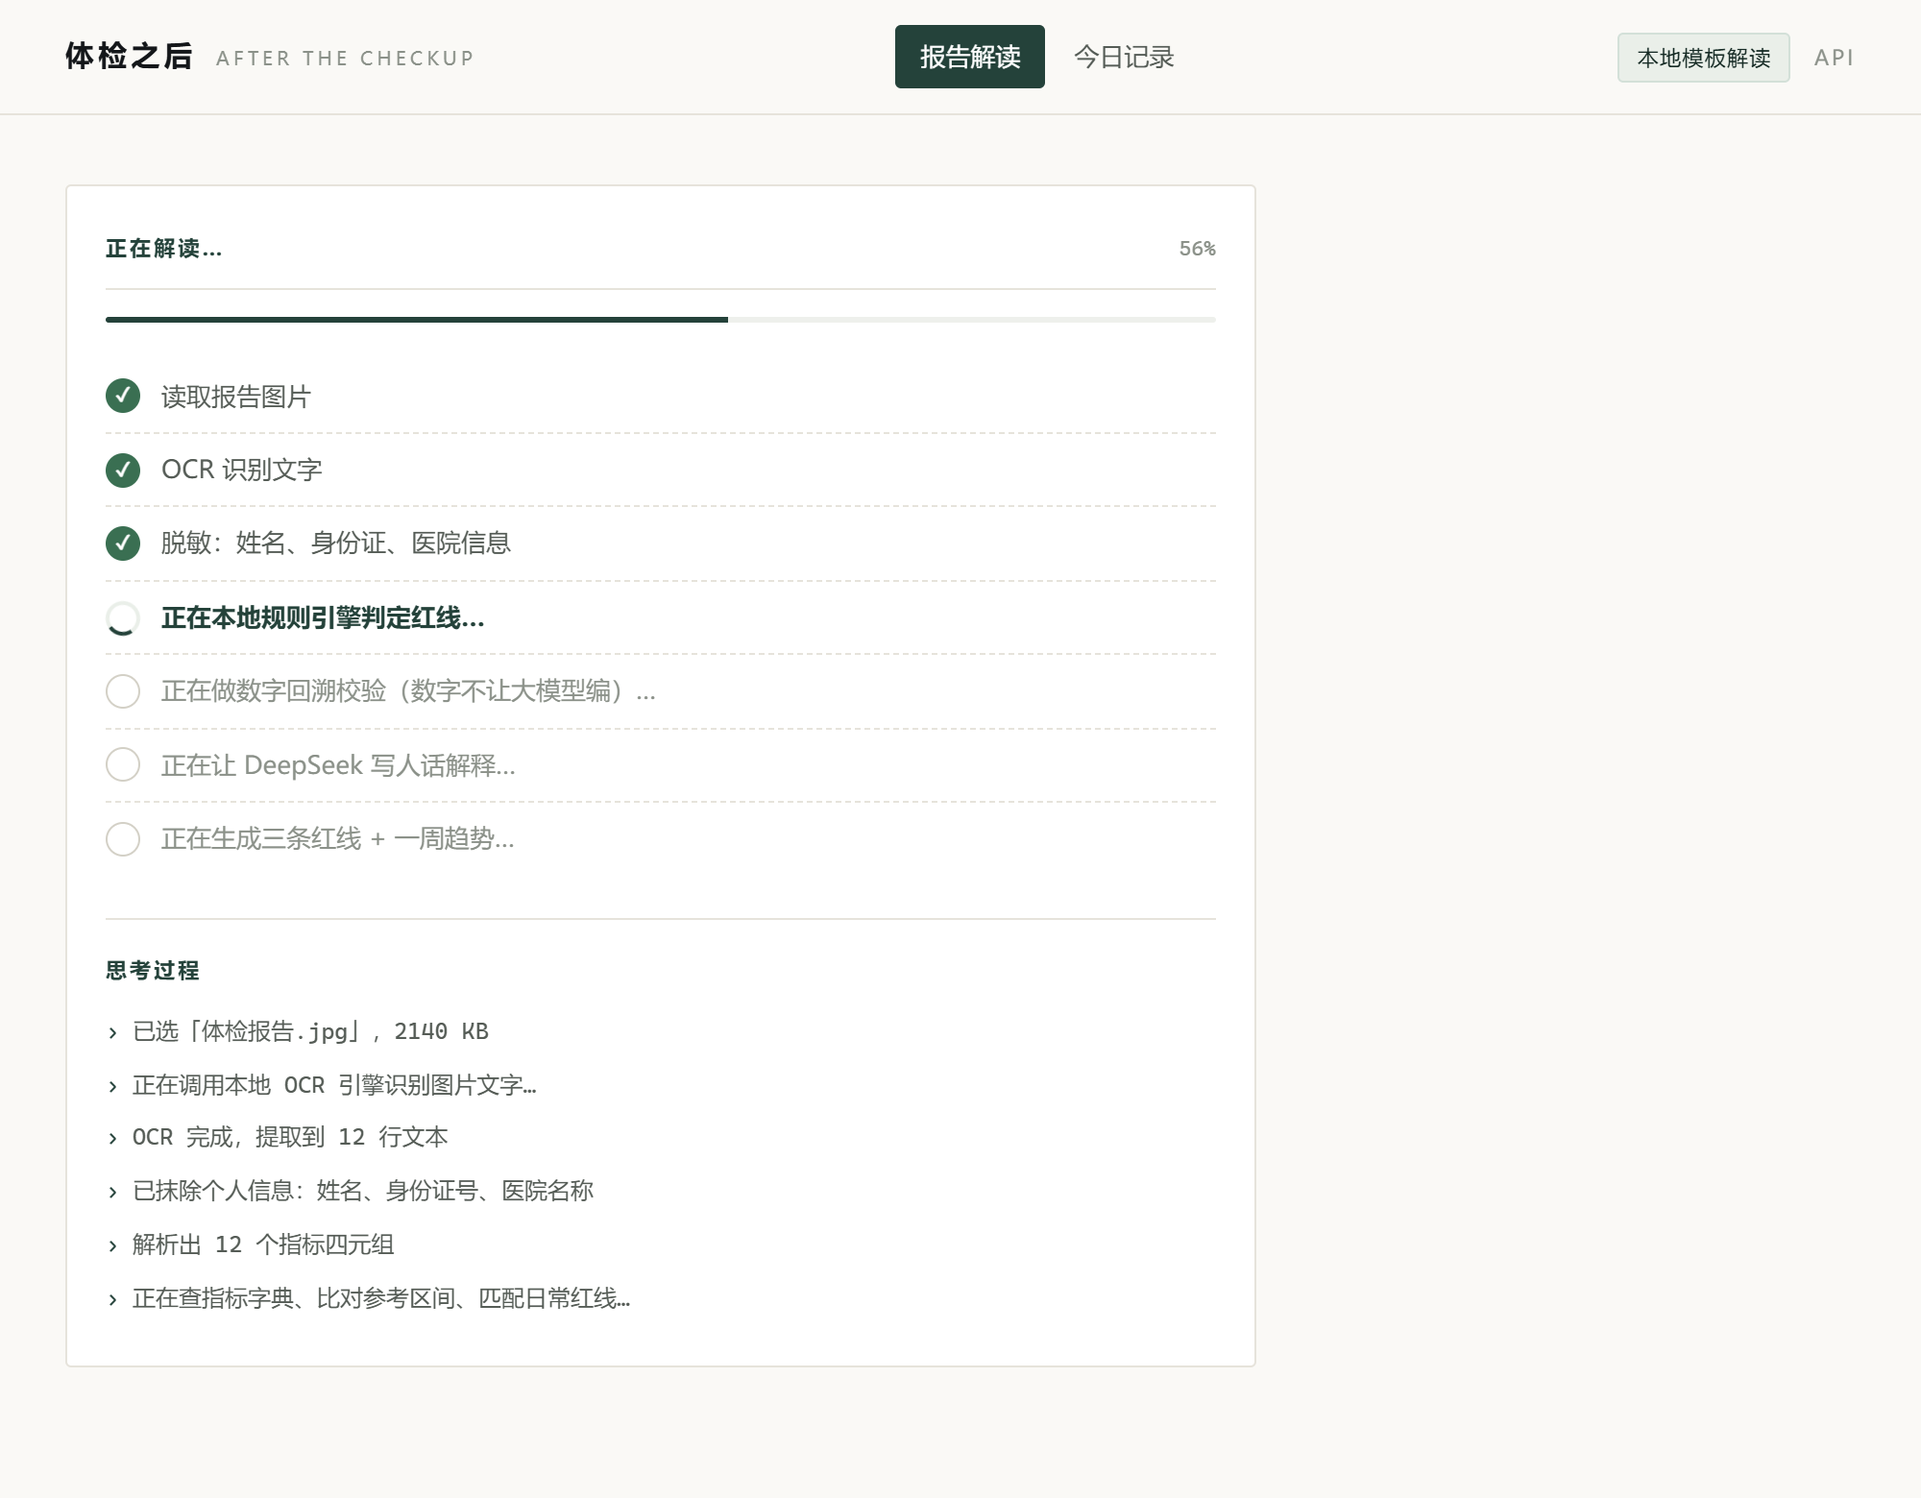
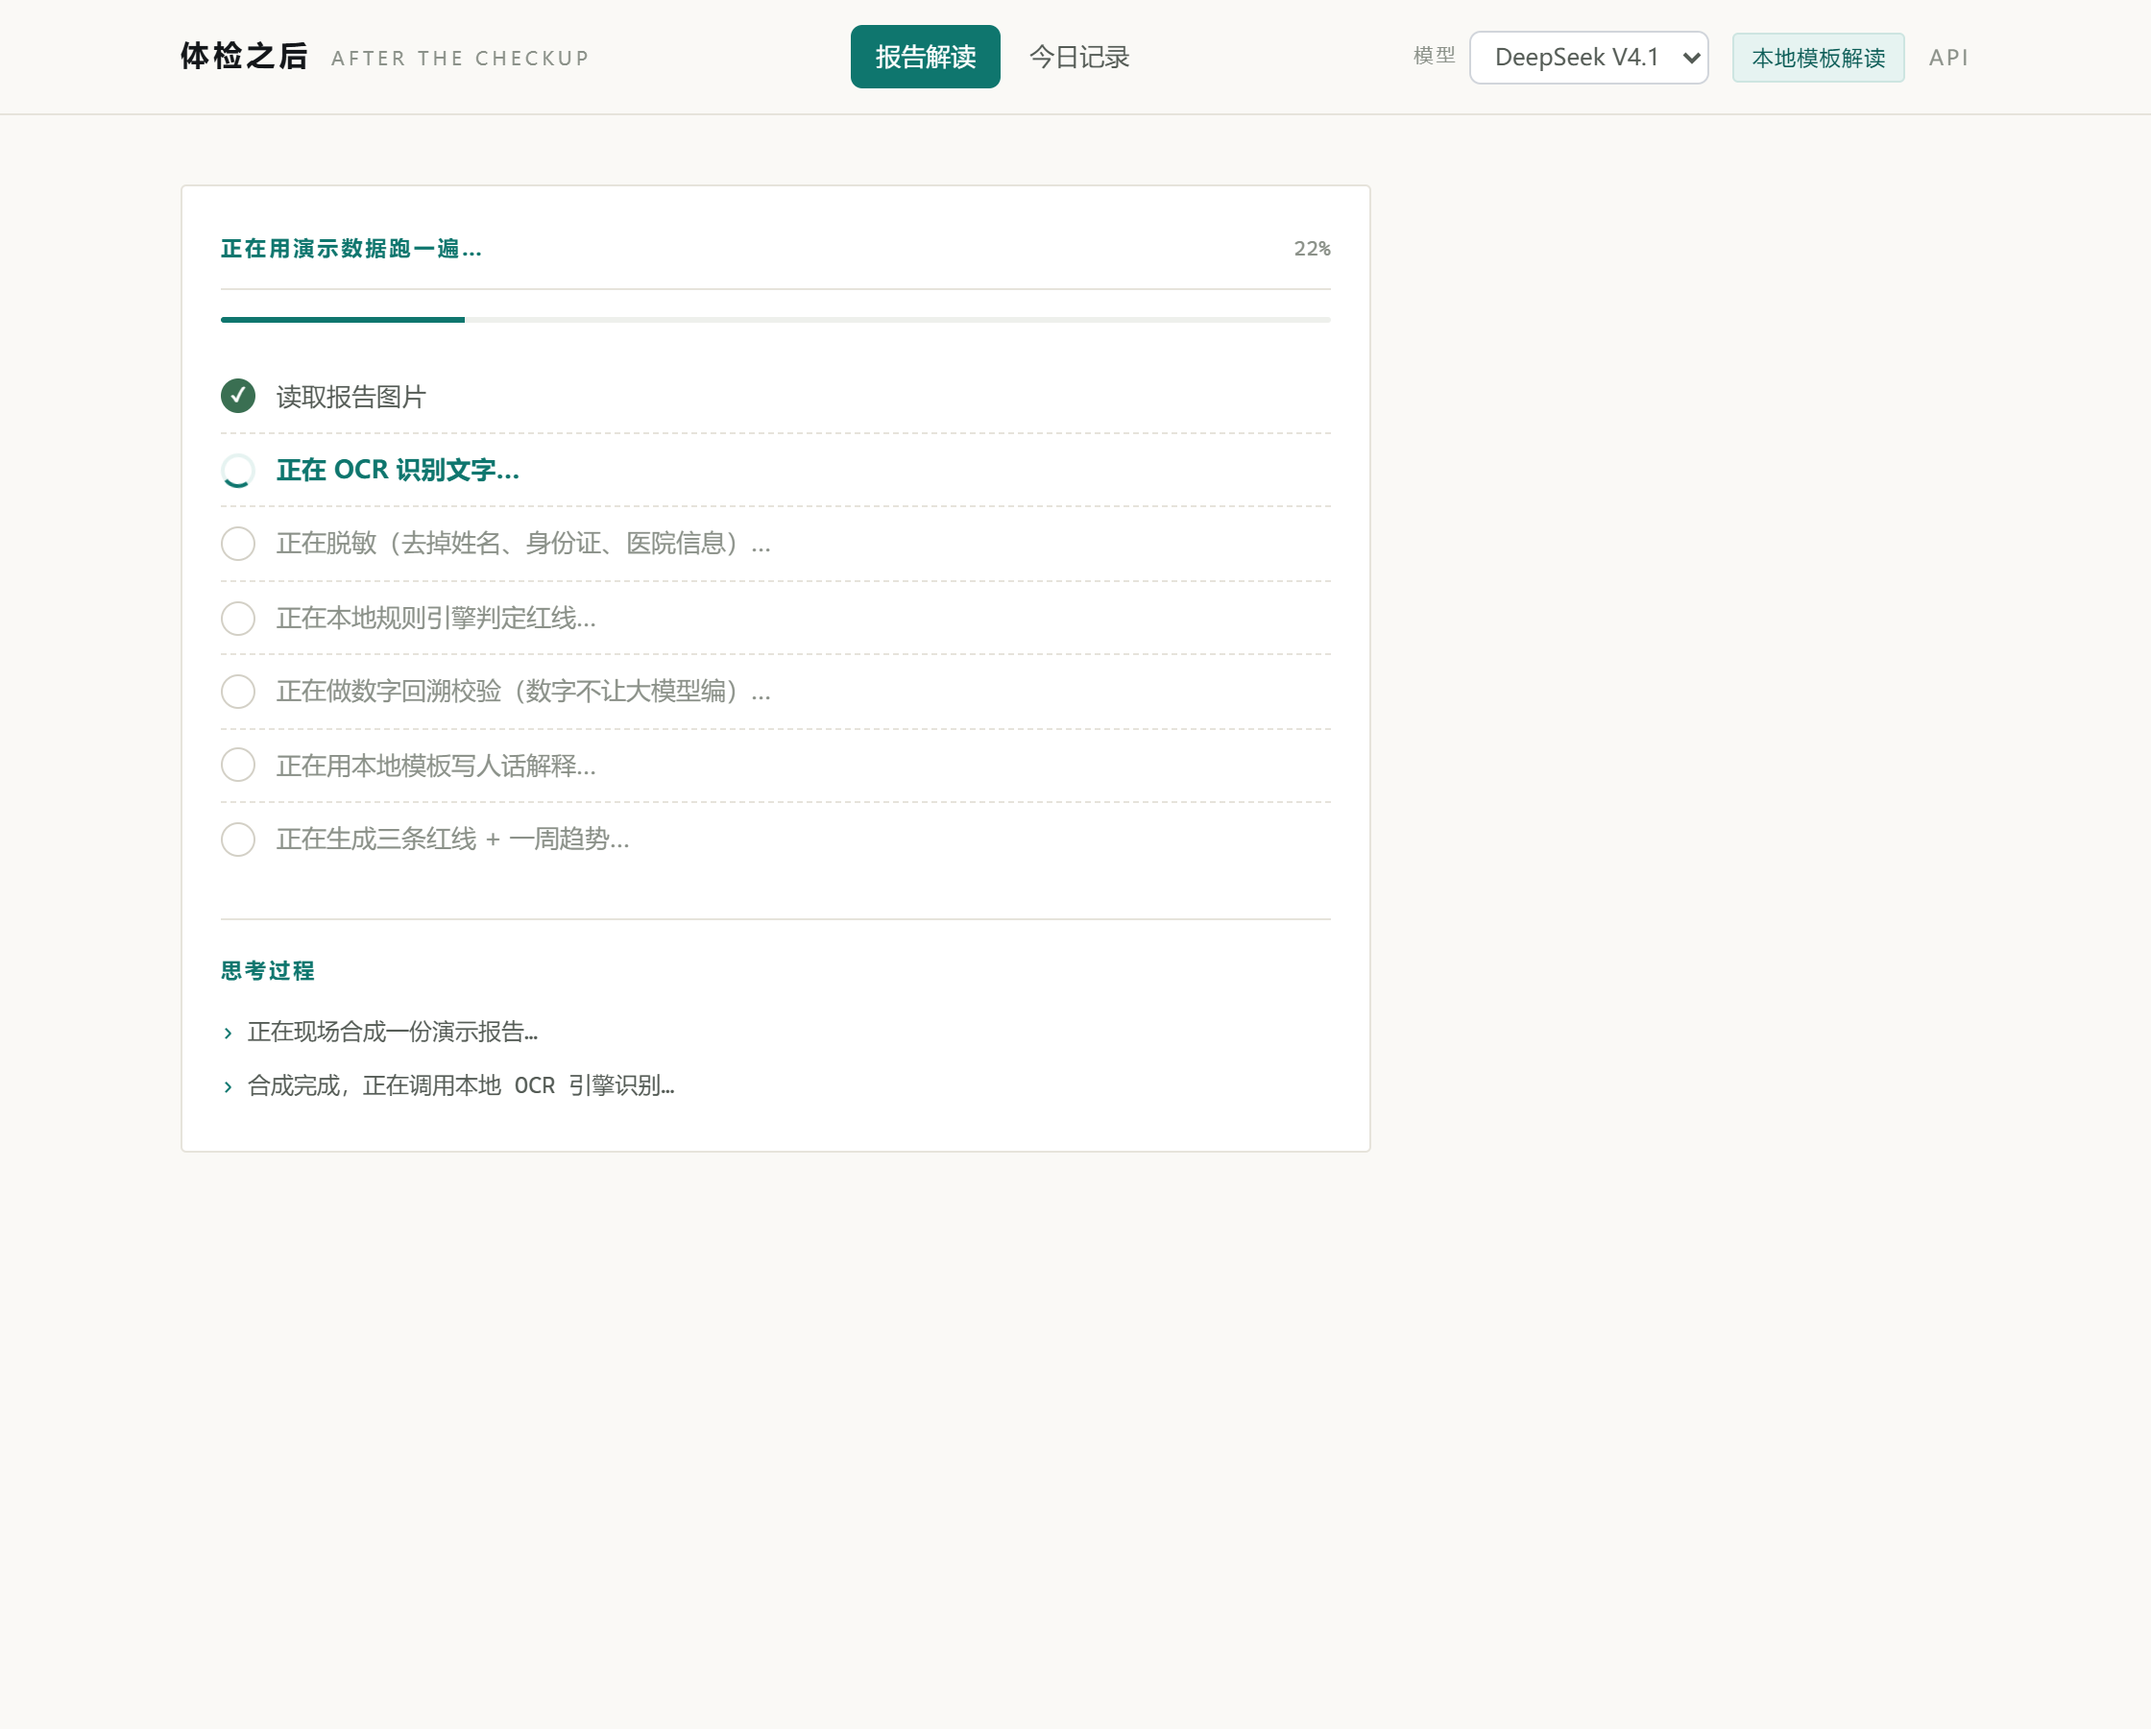
style(ui): 按钮改为克制的工具风（36px / 6px / 纯色 / 无阴影）
按"像支付宝、像医院系统"的目标重做按钮规格，抽成 --btn-* 一组变量，
以后调风格只改 :root。

按钮
- .btn      统一 36px 高、14px 字、正常字重、6px 圆角、纯色填充
- .btn-primary  实心 #0F766E，去掉 hover 变色以外的全部装饰
- .btn-ghost    白底 + 1px #D1D5DB 边框 + #111827 文字
- .btn-line 新增，暗红 #B91C1C，只给"记录一餐 / 记一次测量"
  （这两个动作的结果就是撞线判定，属于红线相关）
- .btn-sm   只收内边距和字号，高度仍 36px，一排里不再有高有低
- .form-actions 间距 12px → 8px，统一 --btn-gap

为对齐同一套节奏，顺带调整的非 .btn 控件
- .segmented / .seg  外框 36px、内块 30px、圆角 6/5px
- .chat-ask          999px 胶囊 → 6px 方形按钮、32px 高
  （它是全站唯一的全圆角，正是最像模板的一处）
- .dish-chip / .model-select  圆角统一 6px
- .nav-tab           导航标签保持紧凑，只对齐 6px 圆角
- .chat-input        固定 36px，与旁边「提问」按钮同高

主色
- --primary 由 #24423a 调为 #0F766E 一族
  否则选中态与按钮会出现两种绿；mode-chip / badge 的绿边同步换青边

说明：原代码里本来就没有紫蓝渐变、发光阴影和 emoji，
本次是把规格调到你给的值，并按码点扫过三个前端文件确认无 emoji。

未动：任何判定逻辑、接口、依赖。static/check.py 通过，测试 420 项全绿。

diff --git a/static/style.css b/static/style.css
@@ -11,8 +11,9 @@
      · 过度饱和的医疗蓝绿 / 橙黄配色
 
    改成：
-     · 暖纸白底 + 墨色文字；主色用低饱和深墨绿，强调色只用铜色一点点
-     · 1px 细线分区代替卡片阴影，圆角统一收到 2-3px
+     · 暖纸白底 + 墨色文字；主色用深青，强调色只用铜色一点点
+     · 1px 细线分区代替卡片阴影，容器圆角收到 2-3px
+     · 按钮单独一套规格：36px 高 / 6px 圆角 / 8px 间距 / 纯色无阴影
      · 左对齐、上下分层，靠字重与字号拉开层级而不是靠色块
      · 数字统一 tabular-nums 等宽对齐，像真实检验报告那样可扫读
    ============================================================================= */
@@ -32,10 +33,12 @@
   --line: #e6e3db;
   --line-2: #d3d0c6;
 
-  /* 主色：低饱和深墨绿；强调：铜 */
-  --primary: #24423a;
-  --primary-deep: #162b25;
-  --primary-soft: #eaefe9;
+  /* 主色：深青；强调：铜。
+     按钮实心色就是 --primary，两个值必须是同一个，
+     否则页面上会出现"选中态一种绿、按钮另一种绿"的缝合感。 */
+  --primary: #0f766e;
+  --primary-deep: #0b5c56;
+  --primary-soft: #e6f3f1;
 
   --accent: #8a5a2f;
   --accent-soft: #f6f0e7;
@@ -50,6 +53,20 @@
 
   --r: 2px;
   --r-sm: 3px;
+
+  /* 按钮规格（工具风，一处改全局生效）
+     高度 36、圆角 6、间距 8；纯色填充、1px 细线、无渐变无阴影无发光。
+     主次只靠"实心 / 描边"区分，不靠尺寸和颜色堆叠。 */
+  --btn-h: 36px;
+  --btn-r: 6px;
+  --btn-gap: 8px;
+  --btn-primary: #0f766e;
+  --btn-primary-hover: #0b5c56;
+  --btn-primary-press: #094a45;
+  --btn-border: #d1d5db;
+  --btn-text: #111827;
+  --btn-line: #b91c1c;        /* 红线相关动作：暗红，不用亮红 */
+  --btn-line-hover: #991b1b;
 
   --font: system-ui, -apple-system, "Segoe UI", "PingFang SC",
           "Hiragino Sans GB", "Microsoft YaHei", "Source Han Sans SC", sans-serif;
@@ -96,13 +113,15 @@ p { margin: 0; }
 }
 
 .topnav { display: flex; gap: 2px; justify-self: center; }
+/* 顶部标签是导航不是动作按钮，保持紧凑，只把圆角对齐到 6px */
 .nav-tab {
   font: inherit; font-size: 13px; cursor: pointer;
   border: 0; background: transparent; color: var(--ink-2);
-  padding: 6px 13px; border-radius: var(--r-sm); transition: all .15s;
+  padding: 6px 13px; border-radius: var(--btn-r);
+  transition: background-color .14s, color .14s;
 }
 .nav-tab:hover { color: var(--ink); }
-.nav-tab.is-active { background: var(--primary); color: #fff; }
+.nav-tab.is-active { background: var(--btn-primary); color: #fff; }
 
 .topbar-right { display: flex; align-items: center; gap: 12px; justify-self: end; }
 
@@ -117,8 +136,9 @@ p { margin: 0; }
 }
 .model-select {
   font: inherit; font-size: 12px; color: var(--ink-2);
-  border: 1px solid var(--line-2); border-radius: var(--r-sm);
-  background: var(--surface); padding: 4px 8px; cursor: pointer; outline: none;
+  border: 1px solid var(--btn-border); border-radius: var(--btn-r);
+  background: var(--surface); height: 28px; padding: 0 8px;
+  cursor: pointer; outline: none;
   transition: border-color .15s, color .15s;
 }
 .model-select:hover { border-color: var(--primary); color: var(--primary); }
@@ -137,7 +157,7 @@ p { margin: 0; }
   font-size: 11px; letter-spacing: .06em;
   padding: 3px 9px; border-radius: var(--r-sm);
   background: var(--primary-soft); color: var(--primary-deep);
-  border: 1px solid #d3e0d8;
+  border: 1px solid #cde5e1;
 }
 
 /* ─── 页面 ─── */
@@ -182,7 +202,7 @@ p { margin: 0; }
   font-size: 10.5px; letter-spacing: .06em; padding: 2px 8px;
   border-radius: var(--r-sm);
   background: var(--primary-soft); color: var(--primary-deep);
-  border: 1px solid #d3e0d8;
+  border: 1px solid #cde5e1;
 }
 .badge.is-template {
   background: var(--accent-soft); color: var(--accent); border-color: #e8d7bd;
@@ -221,35 +241,61 @@ p { margin: 0; }
 .field-hint { font-size: 12px; color: var(--ink-3); }
 .chosen-file { font-size: 13.5px; max-width: 340px; word-break: break-all; }
 
+/* 分段选择器：外框 36px 高（和按钮同一条基线），内块 30px，圆角外 6 内 5 */
 .segmented {
-  display: inline-flex; background: var(--surface-2);
-  border: 1px solid var(--line); border-radius: var(--r-sm); padding: 2px;
+  display: inline-flex; align-items: center;
+  height: var(--btn-h); padding: 2px;
+  background: var(--surface-2);
+  border: 1px solid var(--line); border-radius: var(--btn-r);
 }
 .seg {
   border: 0; background: transparent; cursor: pointer;
   font: inherit; font-size: 13px; color: var(--ink-2);
-  padding: 5px 15px; border-radius: var(--r-sm); transition: all .14s;
+  height: 30px; padding: 0 15px; border-radius: 5px;
+  transition: background-color .14s, color .14s;
 }
-.seg.is-active { background: var(--primary); color: #fff; font-weight: 600; }
+.seg:hover:not(.is-active) { color: var(--ink); background: #ebe9e2; }
+.seg.is-active { background: var(--btn-primary); color: #fff; font-weight: 500; }
 
 .form-actions {
-  display: flex; flex-wrap: wrap; gap: 12px; align-items: center;
+  display: flex; flex-wrap: wrap; gap: var(--btn-gap); align-items: center;
   margin-top: 16px;
 }
 
+/* ─── 按钮 ───
+   规格来源：--btn-* 一组变量。改风格只改 :root，不用翻遍全文。
+   刻意没有的东西：渐变、box-shadow、发光、emoji、粗细不一的字重。
+   主按钮实心、次按钮白底描边，两者同为 36px —— 靠填充区分主次，不靠大小。 */
 .btn {
-  font: inherit; font-size: 13.5px; font-weight: 600; cursor: pointer;
-  border-radius: var(--r-sm); padding: 9px 18px;
-  border: 1px solid transparent; transition: all .15s; white-space: nowrap;
+  display: inline-flex; align-items: center; justify-content: center;
+  font: inherit; font-size: 14px; font-weight: 400;
+  line-height: 1; height: var(--btn-h); padding: 0 16px;
+  border: 1px solid transparent; border-radius: var(--btn-r);
+  background: var(--surface); color: var(--btn-text);
+  cursor: pointer; white-space: nowrap;
+  box-shadow: none; text-shadow: none;
+  -webkit-appearance: none; appearance: none;
+  transition: background-color .12s, border-color .12s, color .12s;
 }
-.btn:disabled { opacity: .4; cursor: not-allowed; }
-.btn-primary { background: var(--primary); color: #fff; }
-.btn-primary:not(:disabled):hover { background: var(--primary-deep); }
-.btn-ghost {
-  background: var(--surface); border-color: var(--line-2); color: var(--ink-2);
-}
-.btn-ghost:not(:disabled):hover { border-color: var(--primary); color: var(--primary); }
-.btn-sm { padding: 5px 12px; font-size: 12px; }
+.btn:focus-visible { outline: 2px solid var(--btn-primary); outline-offset: 2px; }
+.btn:disabled { opacity: .45; cursor: not-allowed; }
+
+/* 主按钮：纯色深青，无渐变无发光 */
+.btn-primary { background: var(--btn-primary); border-color: var(--btn-primary); color: #fff; }
+.btn-primary:not(:disabled):hover { background: var(--btn-primary-hover); border-color: var(--btn-primary-hover); }
+.btn-primary:not(:disabled):active { background: var(--btn-primary-press); border-color: var(--btn-primary-press); }
+
+/* 次按钮：白底 + 1px 细灰边框 + 近黑字 */
+.btn-ghost { background: #fff; border-color: var(--btn-border); color: var(--btn-text); }
+.btn-ghost:not(:disabled):hover { background: #f9fafb; border-color: #9ca3af; color: var(--btn-text); }
+.btn-ghost:not(:disabled):active { background: #f3f4f6; }
+
+/* 红线相关动作（记录一餐 / 记一次测量）：暗红实心，不用亮红 */
+.btn-line { background: var(--btn-line); border-color: var(--btn-line); color: #fff; }
+.btn-line:not(:disabled):hover { background: var(--btn-line-hover); border-color: var(--btn-line-hover); }
+
+/* 小号只收内边距和字号，高度仍是 36px —— 一排里不能有高有矮 */
+.btn-sm { padding: 0 12px; font-size: 13px; }
 
 /* ─── 提示折叠 ─── */
 .tips {
@@ -414,17 +460,21 @@ p { margin: 0; }
    刻意不做气泡：这是一个「问一句、拿一句」的工具区，
    气泡的圆角和背景只会让本来就窄的内容区更挤。
    改用「问」字前缀 + 细线分隔，和逐项结果、红线卡片是同一套语言。 */
-.chat-quick { display: flex; flex-wrap: wrap; gap: 8px; }
+.chat-quick { display: flex; flex-wrap: wrap; gap: var(--btn-gap); }
+/* 快捷问题也是按钮：白底细边、6px 圆角、32px 高（比主按钮矮一档，因为它是"建议"不是"动作"）。
+   原先的 999px 胶囊是页面里唯一的全圆角，正是最像模板的一处。 */
 .chat-ask {
-  font: inherit; font-size: 12.5px; cursor: pointer;
-  border: 1px solid var(--line-2); background: var(--surface);
-  color: var(--ink-2); border-radius: 999px; padding: 6px 14px;
-  transition: border-color .15s, color .15s, background .15s;
+  display: inline-flex; align-items: center;
+  font: inherit; font-size: 13px; font-weight: 400; line-height: 1;
+  height: 32px; padding: 0 13px; cursor: pointer;
+  border: 1px solid var(--btn-border); background: #fff;
+  color: var(--btn-text); border-radius: var(--btn-r);
+  transition: border-color .12s, color .12s, background-color .12s;
 }
 .chat-ask:hover:not(:disabled) {
-  border-color: var(--primary); color: var(--primary); background: var(--primary-soft);
+  border-color: var(--btn-primary); color: var(--btn-primary); background: var(--primary-soft);
 }
-.chat-ask:disabled { opacity: .5; cursor: not-allowed; }
+.chat-ask:disabled { opacity: .45; cursor: not-allowed; }
 
 .chat-log { margin-top: 14px; }
 .chat-turn { border-top: 1px dashed var(--line); padding: 13px 0; }
@@ -458,14 +508,15 @@ p { margin: 0; }
 }
 
 .chat-form {
-  display: flex; gap: 8px;
+  display: flex; gap: var(--btn-gap);
   margin-top: 14px; padding-top: 14px; border-top: 1px solid var(--line);
 }
+/* 输入框与旁边的「提问」按钮同高，行才不会一高一低 */
 .chat-input {
-  flex: 1; min-width: 0;
+  flex: 1; min-width: 0; height: var(--btn-h); padding: 0 12px;
   font: inherit; font-size: 13.5px; color: var(--ink);
-  border: 1px solid var(--line-2); border-radius: var(--r-sm);
-  padding: 8px 12px; background: var(--surface-2); outline: none;
+  border: 1px solid var(--btn-border); border-radius: var(--btn-r);
+  background: var(--surface-2); outline: none;
   transition: border-color .15s, background .15s;
 }
 .chat-input:focus { border-color: var(--primary); background: var(--surface); }
@@ -664,18 +715,21 @@ p { margin: 0; }
 .search:focus { border-color: var(--primary); background: #fff; }
 
 .dish-grid {
-  display: flex; flex-wrap: wrap; gap: 7px;
+  display: flex; flex-wrap: wrap; gap: var(--btn-gap);
   margin-bottom: 14px; max-height: 230px; overflow-y: auto; padding: 2px;
 }
+/* 菜品是可点选的开关，圆角与按钮统一为 6px，选中态用主按钮同色实心 */
 .dish-chip {
   display: inline-flex; align-items: center; gap: 6px;
-  font-size: 12.5px; padding: 5px 11px; border-radius: var(--r-sm);
-  border: 1px solid var(--line-2); background: var(--surface);
-  color: var(--ink-2); cursor: pointer; transition: all .14s;
+  font-size: 12.5px; height: 28px; padding: 0 11px;
+  border-radius: var(--btn-r);
+  border: 1px solid var(--btn-border); background: #fff;
+  color: var(--btn-text); cursor: pointer;
+  transition: background-color .12s, border-color .12s, color .12s;
 }
-.dish-chip:hover { border-color: var(--primary); color: var(--primary); }
+.dish-chip:hover { border-color: var(--btn-primary); color: var(--btn-primary); }
 .dish-chip.is-picked {
-  background: var(--primary); border-color: var(--primary); color: #fff;
+  background: var(--btn-primary); border-color: var(--btn-primary); color: #fff;
 }
 .dish-chip .dot { width: 5px; height: 5px; border-radius: 50%; flex: none; }
 .dot-high { background: var(--warn); }

diff --git a/static/index.html b/static/index.html
@@ -265,7 +265,7 @@
       <span id="picked-dishes" class="picked-text">还没选，点上面的菜名</span>
     </div>
     <div class="form-actions">
-      <button type="button" class="btn btn-primary" id="btn-meal" disabled>记录这一餐</button>
+      <button type="button" class="btn btn-line" id="btn-meal" disabled>记录这一餐</button>
       <span class="field-hint">标签为粗筛，high 档才撞线，medium 不打扰</span>
     </div>
   </section>
@@ -304,7 +304,7 @@
     </div>
 
     <div class="form-actions">
-      <button type="button" class="btn btn-primary" id="btn-num">记录</button>
+      <button type="button" class="btn btn-line" id="btn-num">记录</button>
       <span class="field-hint">血压 ≥140/90 会自动激活「限钠」红线</span>
     </div>
     <div id="today-numerics" class="mini-list"></div>
